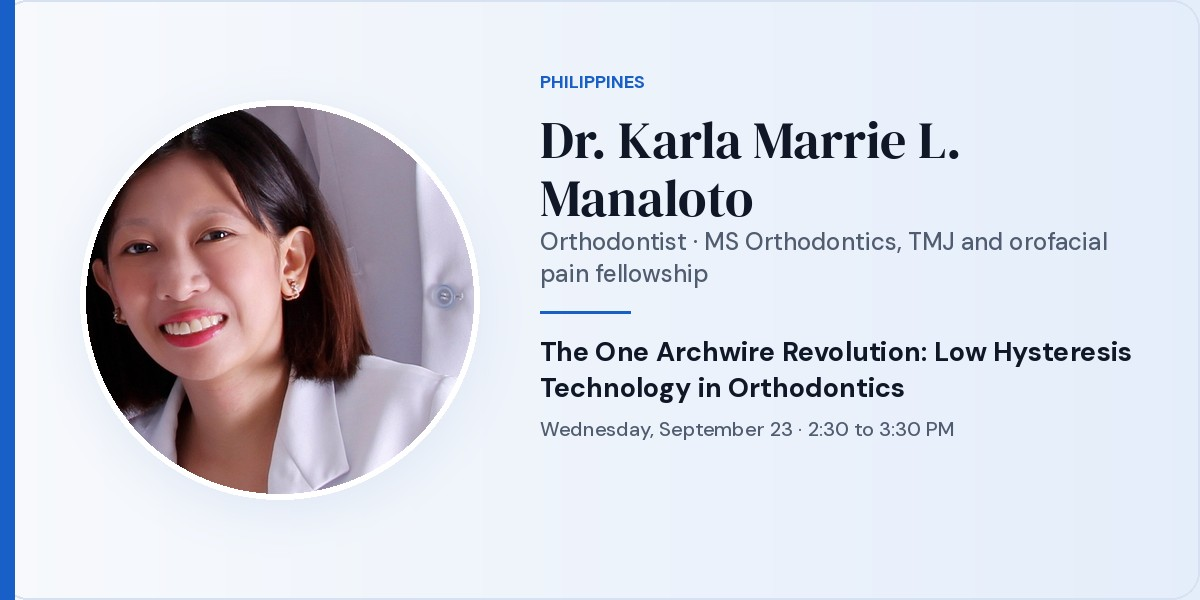
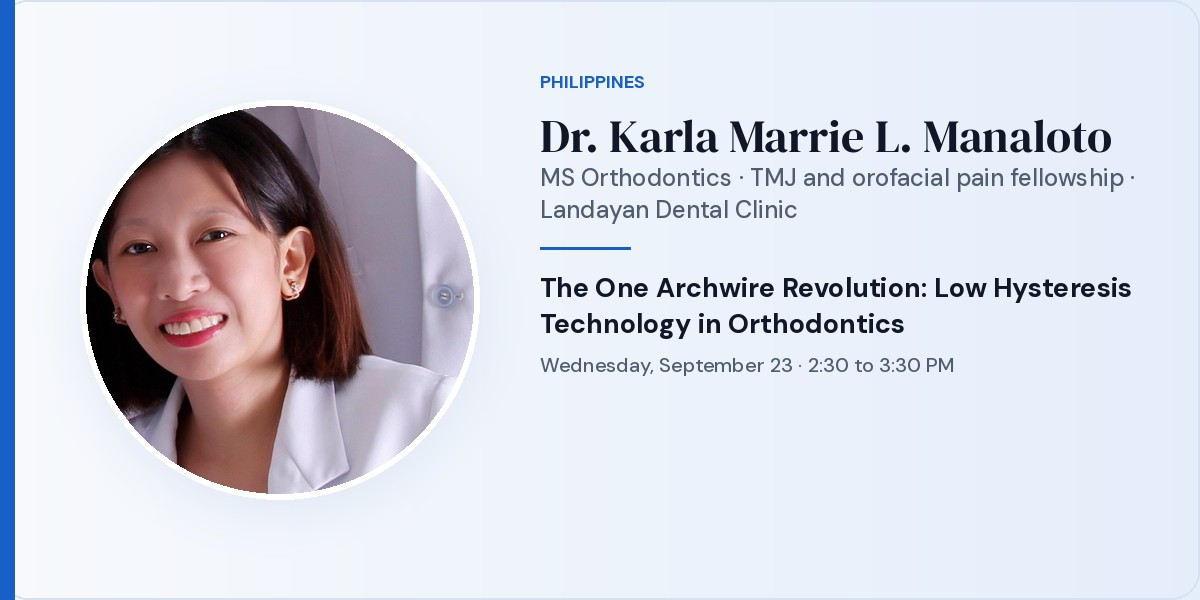
news: NADTI guide, full names and degrees on the share card, cards, schedule and bios; clean A1 Pro color renders in the booth grid
Claude-Session: https://claude.ai/code/session_014Ra92q29sWd9fBiskr8DQ3

Changed region(s): [[0.4317, 0.18, 0.9558, 0.75]]

diff --git a/src/data/news.js b/src/data/news.js
@@ -891,29 +891,29 @@ All lectures are inside the Scientific Sessions program at SMX. Times are as pos
 
 **Tuesday, September 22**
 
-@avatar(/images/news/nadti-2026-smx-manila-complete-guide/avatar-ryan-san.jpg) **10:00 to 11:00 AM.** Mr. Ryan San, Singapore. "Practical Lessons from Implementing AI-assisted Dental Workflows."
+@avatar(/images/news/nadti-2026-smx-manila-complete-guide/avatar-ryan-san.jpg) **10:00 to 11:00 AM.** Mr. Ryan San Yi Leong, Singapore. "Practical Lessons from Implementing AI-assisted Dental Workflows."
 
-@avatar(/images/news/nadti-2026-smx-manila-complete-guide/avatar-noor-addeen-abo-arsheed.jpg) **1:30 to 3:00 PM.** Dr. Noor Addeen Abo Arsheed, MAHSA University, Malaysia. "Breaking the Rules: Why Endocrowns are Changing the Way We Restore Teeth. The Biomimetic Revolution."
+@avatar(/images/news/nadti-2026-smx-manila-complete-guide/avatar-noor-addeen-abo-arsheed.jpg) **1:30 to 3:00 PM.** Assoc. Prof. Dr. Noor Addeen Abo Arsheed, BDS, MDS, FPFA, MICP, MAHSA University, Malaysia. "Breaking the Rules: Why Endocrowns are Changing the Way We Restore Teeth. The Biomimetic Revolution."
 
-@avatar(/images/news/nadti-2026-smx-manila-complete-guide/avatar-felylou-altura-fernandez.jpg) **4:00 to 5:00 PM.** Dr. Felylou Altura Fernandez, Philippines. "Legal Foundations of Dentistry: Mastering the Code of Ethics for Dentists, Dental Hygienists and Dental Technologists."
+@avatar(/images/news/nadti-2026-smx-manila-complete-guide/avatar-felylou-altura-fernandez.jpg) **4:00 to 5:00 PM.** Dr. Felylou Altura Fernandez, JD, DMD, RN, Philippines. "Legal Foundations of Dentistry: Mastering the Code of Ethics for Dentists, Dental Hygienists and Dental Technologists."
 
 **Wednesday, September 23**
 
-@avatar(/images/news/nadti-2026-smx-manila-complete-guide/avatar-nazatul-sabariah-ahmad.jpg) **10:30 to 11:30 AM.** Dr. Nazatul Sabariah Bt. Ahmad, Malaysia. "Molar Incisor Hypomineralisation: Navigating Diagnosis, Prevention and Clinical Management."
+@avatar(/images/news/nadti-2026-smx-manila-complete-guide/avatar-nazatul-sabariah-ahmad.jpg) **10:30 to 11:30 AM.** Dr. Nazatul Sabariah Bt. Ahmad, DDS, DClinDent (Paediatric Dentistry), Malaysia. "Molar Incisor Hypomineralisation: Navigating Diagnosis, Prevention and Clinical Management."
 
-@avatar(/images/news/nadti-2026-smx-manila-complete-guide/avatar-johnah-galicia.jpg) **1:00 to 2:00 PM.** Dr. Johnah C. Galicia, Philippines. "Persistent Endodontic Infections: From Biological Causes to Clinical Solutions."
+@avatar(/images/news/nadti-2026-smx-manila-complete-guide/avatar-johnah-galicia.jpg) **1:00 to 2:00 PM.** Dr. Johnah C. Galicia, DMD, PhD, MS, Diplomate ABE, Philippines. "Persistent Endodontic Infections: From Biological Causes to Clinical Solutions."
 
-@avatar(/images/news/nadti-2026-smx-manila-complete-guide/avatar-karla-marrie-manaloto.jpg) **2:30 to 3:30 PM.** Dr. Karla Marrie L. Manaloto, Philippines. "The One Archwire Revolution: Leveraging Low Hysteresis Technology for Efficient and Predictable Orthodontic Treatment."
+@avatar(/images/news/nadti-2026-smx-manila-complete-guide/avatar-karla-marrie-manaloto.jpg) **2:30 to 3:30 PM.** Dr. Karla Marrie L. Manaloto, MS Orthodontics, Philippines. "The One Archwire Revolution: Leveraging Low Hysteresis Technology for Efficient and Predictable Orthodontic Treatment."
 
 **Thursday, September 24**
 
-@avatar(/images/news/nadti-2026-smx-manila-complete-guide/avatar-noor-addeen-abo-arsheed.jpg) **9:00 to 10:00 AM, Student Forum.** Dr. Noor Addeen Abo Arsheed. "When to Restore, When to Replace: Clinical Decision-Making for Future Dentists."
+@avatar(/images/news/nadti-2026-smx-manila-complete-guide/avatar-noor-addeen-abo-arsheed.jpg) **9:00 to 10:00 AM, Student Forum.** Assoc. Prof. Dr. Noor Addeen Abo Arsheed, BDS, MDS, FPFA, MICP. "When to Restore, When to Replace: Clinical Decision-Making for Future Dentists."
 
-@avatar(/images/news/nadti-2026-smx-manila-complete-guide/avatar-kullanant-pansrimangkorn.jpg) **10:30 to 11:30 AM.** Dr. Kullanant Pansrimangkorn, Thailand. "Transform Patient Oral Hygiene Education with iTOP: Empowering Patients for Lifelong Oral Health."
+@avatar(/images/news/nadti-2026-smx-manila-complete-guide/avatar-kullanant-pansrimangkorn.jpg) **10:30 to 11:30 AM.** Dr. Kullanant Pansrimangkorn, DDS, Thailand. "Transform Patient Oral Hygiene Education with iTOP: Empowering Patients for Lifelong Oral Health."
 
 @avatar(/images/news/nadti-2026-smx-manila-complete-guide/avatar-chung-hua-chen.jpg) **1:00 to 2:30 PM.** Dr. Chung Hua Chen, Taiwan. "Bioceramic Obturation: The Contemporary Solution for Minimally Invasive Endodontics."
 
-@avatar(/images/news/nadti-2026-smx-manila-complete-guide/avatar-renoir-amba.jpg) **3:00 to 4:00 PM.** Dr. Renoir S. Amba, Philippines. "Metal Free: All-Ceramic Conservative Approach to Posterior Single Tooth Replacement."
+@avatar(/images/news/nadti-2026-smx-manila-complete-guide/avatar-renoir-amba.jpg) **3:00 to 4:00 PM.** Dr. Renoir S. Amba, prosthodontist, Philippines. "Metal Free: All-Ceramic Conservative Approach to Posterior Single Tooth Replacement."
 
 ![The Scientific Sessions schedule as posted by NADTI](/images/news/nadti-2026-smx-manila-complete-guide/poster-scientific-sessions-grid.jpg)
 
@@ -925,31 +925,31 @@ NADTI's posts give each speaker a name, a flag and a title. We went further and 
 
 ![Mr. Ryan San](/images/news/nadti-2026-smx-manila-complete-guide/card-ryan-san.jpg)
 
-**Mr. Ryan San, Singapore.** Ryan San Yi Leong is the chief executive and co-founder of **EM2AI**, the artificial-intelligence subsidiary of Q&M Dental Group, a dental chain listed on the Singapore Exchange. EM2AI builds software that reads radiographs, flags pathology, charts automatically and drafts treatment plans; it runs across more than 150 Q&M clinics in Singapore and Malaysia, its accuracy has been checked by University of Malaya staff, and in May 2026 it was granted a Singapore patent for dental treatment planning methods. He is not a dentist, which is the point of his hour: this is the operator's view of what happens when a clinic group actually switches AI on, what broke, and what stuck. If you have been wondering whether AI charting is real or a brochure, this is the session for you.
+**Mr. Ryan San Yi Leong, BCom, Singapore.** Ryan San is the chief executive and co-founder of **EM2AI**, the artificial-intelligence subsidiary of Q&M Dental Group, a dental chain listed on the Singapore Exchange. EM2AI builds software that reads radiographs, flags pathology, charts automatically and drafts treatment plans; it runs across more than 150 Q&M clinics in Singapore and Malaysia, its accuracy has been checked by University of Malaya staff, and in May 2026 it was granted a Singapore patent for dental treatment planning methods. He holds a Bachelor of Commerce in Accounting and Finance from Curtin University and is not a dentist, which is the point of his hour: this is the operator's view of what happens when a clinic group actually switches AI on, what broke, and what stuck. If you have been wondering whether AI charting is real or a brochure, this is the session for you.
 
 ![Dr. Noor Addeen Abo Arsheed](/images/news/nadti-2026-smx-manila-complete-guide/card-noor-addeen-abo-arsheed.jpg)
 
-**Dr. Noor Addeen Abo Arsheed, MAHSA University, Malaysia.** An Associate Professor and certified maxillofacial prosthodontist who heads the Restorative Dentistry Department of the Faculty of Dentistry at MAHSA University in Selangor. He earned his Bachelor of Dental Surgery in 2005 and his master's degree and specialization in prosthodontics in 2010, trained under the prosthodontic rehabilitation specialists Joseph Massad and Matthias Kern, and now carries more than fifteen years of clinical and teaching experience. He is a Fellow of the Pierre Fauchard Academy and a member of the International College of Prosthodontists, previously served as Deputy Dean and head of clinical teaching at Lincoln University College, and is a co-author of a systematic review and meta-analysis on the Biologically Oriented Preparation Technique. He speaks twice at NADTI: on Tuesday afternoon he makes the case for the **endocrown**, the single-piece ceramic restoration that anchors in the pulp chamber instead of a post and core, as part of the biomimetic movement in restorative dentistry; on Thursday morning he opens the Student Forum on the judgment every clinician makes daily, whether a compromised tooth is worth saving. NADTI notes this is his second visit to the Philippines.
+**Assoc. Prof. Dr. Noor Addeen Abo Arsheed, BDS, MDS, FPFA, MICP, Malaysia.** An Associate Professor and certified maxillofacial prosthodontist who heads the Restorative Dentistry Department of the Faculty of Dentistry at MAHSA University in Selangor. He earned his Bachelor of Dental Surgery in 2005 and his master's degree and specialization in prosthodontics in 2010, trained under the prosthodontic rehabilitation specialists Joseph Massad and Matthias Kern, and now carries more than fifteen years of clinical and teaching experience. He is a Fellow of the Pierre Fauchard Academy and a member of the International College of Prosthodontists, previously served as Deputy Dean and head of clinical teaching at Lincoln University College, and is a co-author of a systematic review and meta-analysis on the Biologically Oriented Preparation Technique. He speaks twice at NADTI: on Tuesday afternoon he makes the case for the **endocrown**, the single-piece ceramic restoration that anchors in the pulp chamber instead of a post and core, as part of the biomimetic movement in restorative dentistry; on Thursday morning he opens the Student Forum on the judgment every clinician makes daily, whether a compromised tooth is worth saving. NADTI notes this is his second visit to the Philippines.
 
 ![Dr. Felylou Altura Fernandez](/images/news/nadti-2026-smx-manila-complete-guide/card-felylou-altura-fernandez.jpg)
 
-**Dr. Felylou Altura Fernandez, Philippines.** A dentist, a lawyer and a nurse in one person. The Professional Regulation Commission's own CPD records list her as JD (LLB), DMD, RN, USRN, and she has delivered this same lecture on the PDA circuit under a PRC-accredited program. Her hour covers whether the PRC Code of Ethics under Board Resolution No. 14, series of 2008 is binding on you, the gray zones between dentistry as a profession and dentistry as a business, and how the code applies to social-media conduct. Practical, and increasingly relevant for every clinic with a Facebook page.
+**Dr. Felylou Altura Fernandez, JD (LLB), DMD, RN, USRN, Philippines.** A dentist, a lawyer and a nurse in one person. The Professional Regulation Commission's own CPD records list her as JD (LLB), DMD, RN, USRN, and she has delivered this same lecture on the PDA circuit under a PRC-accredited program. Her hour covers whether the PRC Code of Ethics under Board Resolution No. 14, series of 2008 is binding on you, the gray zones between dentistry as a profession and dentistry as a business, and how the code applies to social-media conduct. Practical, and increasingly relevant for every clinic with a Facebook page.
 
 ![Dr. Nazatul Sabariah Bt. Ahmad](/images/news/nadti-2026-smx-manila-complete-guide/card-nazatul-sabariah-ahmad.jpg)
 
-**Dr. Nazatul Sabariah Bt. Ahmad, Malaysia.** A paediatric dentist who earned her DDS at Universiti Kebangsaan Malaysia in 2004 and her Doctor in Dentistry in Paediatric Dentistry at the UCL Eastman Dental Institute in London in 2012. She started in Malaysia's Ministry of Health, spent about a decade as a university academic, and now leads the Dental Valet group of paediatric clinics as CEO of DV Group Berhad while consulting at Avisena Women's and Children's Specialist Hospital. She sits on the editorial board of the Ministry of Health's Clinical Practice Guidelines. Her lecture is on **Molar Incisor Hypomineralisation**, the chalky, sensitive, fracture-prone first molars and incisors that general dentists see far more often than they diagnose. Diagnosis, prevention, and what to do when a child sits in your chair with one.
+**Dr. Nazatul Sabariah Bt. Ahmad, DDS, DClinDent (Paediatric Dentistry), Malaysia.** A paediatric dentist who earned her DDS at Universiti Kebangsaan Malaysia in 2004 and her Doctor in Dentistry in Paediatric Dentistry at the UCL Eastman Dental Institute in London in 2012. She started in Malaysia's Ministry of Health, spent about a decade as a university academic, and now leads the Dental Valet group of paediatric clinics as CEO of DV Group Berhad while consulting at Avisena Women's and Children's Specialist Hospital. She sits on the editorial board of the Ministry of Health's Clinical Practice Guidelines. Her lecture is on **Molar Incisor Hypomineralisation**, the chalky, sensitive, fracture-prone first molars and incisors that general dentists see far more often than they diagnose. Diagnosis, prevention, and what to do when a child sits in your chair with one.
 
 ![Dr. Johnah C. Galicia](/images/news/nadti-2026-smx-manila-complete-guide/card-johnah-galicia.jpg)
 
-**Dr. Johnah C. Galicia, Philippines.** One of the most credentialed endodontists in the country. DMD from Manila Central University in 1996, a clinical dentistry diploma from the University of Rennes 1 in France, a PhD in Oral Biology from Niigata University in Japan, and endodontic specialty training at the University of North Carolina at Chapel Hill as an AAE Foundation Educator Scholar. He is a Diplomate of the American Board of Endodontics, formerly directed graduate endodontology programs at the University of the Pacific in California and at UCL Eastman in London, served as a trustee of the AAE Foundation, and is now Professor and Associate Dean at the MCU College of Dentistry. His topic is the case every practitioner dreads: the root canal that will not heal. Why persistent infections persist, biologically, and what actually resolves them.
+**Dr. Johnah C. Galicia, DMD, PhD, MS, Diplomate of the American Board of Endodontics, Philippines.** One of the most credentialed endodontists in the country. DMD from Manila Central University in 1996, a clinical dentistry diploma from the University of Rennes 1 in France, a PhD in Oral Biology from Niigata University in Japan, and endodontic specialty training at the University of North Carolina at Chapel Hill as an AAE Foundation Educator Scholar. He is a Diplomate of the American Board of Endodontics, formerly directed graduate endodontology programs at the University of the Pacific in California and at UCL Eastman in London, served as a trustee of the AAE Foundation, and is now Professor and Associate Dean at the MCU College of Dentistry. His topic is the case every practitioner dreads: the root canal that will not heal. Why persistent infections persist, biologically, and what actually resolves them.
 
 ![Dr. Karla Marrie L. Manaloto](/images/news/nadti-2026-smx-manila-complete-guide/card-karla-marrie-manaloto.jpg)
 
-**Dr. Karla Marrie L. Manaloto, Philippines.** An orthodontist with a Master of Science in Orthodontics from 2012, fellowship training in temporomandibular disorders and orofacial pain, and further training in tongue and lip tie. She consults at Landayan Dental Clinic and belongs to the Orofacial Pain Association of the Philippines, the Philippine Association of Functional Joint Orthopedic TMJ and the Philippine Dental Association, with affiliate membership in the World Federation of Orthodontists. Her lecture is on **low-hysteresis archwires**, wires that deliver a steadier, gentler force across a wider range of deflection, and the claim in the title, that one wire can carry a case further than a conventional sequence.
+**Dr. Karla Marrie L. Manaloto, MS Orthodontics, Philippines.** An orthodontist with a Master of Science in Orthodontics from 2012, fellowship training in temporomandibular disorders and orofacial pain, and further training in tongue and lip tie. She consults at Landayan Dental Clinic and belongs to the Orofacial Pain Association of the Philippines, the Philippine Association of Functional Joint Orthopedic TMJ and the Philippine Dental Association, with affiliate membership in the World Federation of Orthodontists. Her lecture is on **low-hysteresis archwires**, wires that deliver a steadier, gentler force across a wider range of deflection, and the claim in the title, that one wire can carry a case further than a conventional sequence.
 
 ![Dr. Kullanant Pansrimangkorn](/images/news/nadti-2026-smx-manila-complete-guide/card-kullanant-pansrimangkorn.jpg)
 
-**Dr. Kullanant Pansrimangkorn, Thailand.** Listed on Curaden Academy's roster of certified **iTOP** lecturers, the individually trained oral prophylaxis program that teaches clinicians to teach patients, hands in mouth, until brushing and interdental cleaning are done properly. A Bangkok clinician with hospital practice and published research on caries in Thai preschool children. His session is for anyone who has watched a patient nod through hygiene instructions and come back six months later with the same plaque.
+**Dr. Kullanant Pansrimangkorn, DDS, Thailand.** Listed on Curaden Academy's roster of certified **iTOP** lecturers, the individually trained oral prophylaxis program that teaches clinicians to teach patients, hands in mouth, until brushing and interdental cleaning are done properly. A Bangkok clinician with hospital practice and published research on caries in Thai preschool children. His session is for anyone who has watched a patient nod through hygiene instructions and come back six months later with the same plaque.
 
 ![Dr. Chung Hua Chen](/images/news/nadti-2026-smx-manila-complete-guide/card-chung-hua-chen.jpg)
 
@@ -957,7 +957,7 @@ NADTI's posts give each speaker a name, a flag and a title. We went further and 
 
 ![Dr. Renoir S. Amba](/images/news/nadti-2026-smx-manila-complete-guide/card-renoir-amba.jpg)
 
-**Dr. Renoir S. Amba, Philippines.** A prosthodontist with more than thirty years in practice, based at his own clinic in BF Homes, Parañaque. His hour is on **metal-free, all-ceramic** conservative options for replacing a single missing back tooth, the decision between a resin-bonded bridge, a conventional bridge and an implant, and how far modern ceramics have pushed the conservative end of that choice.
+**Dr. Renoir S. Amba, prosthodontist, Philippines.** A prosthodontist with more than thirty years in practice, based at his own clinic in BF Homes, Parañaque. His hour is on **metal-free, all-ceramic** conservative options for replacing a single missing back tooth, the decision between a resin-bonded bridge, a conventional bridge and an implant, and how far modern ceramics have pushed the conservative end of that choice.
 
 ## The First Student Forum
 
@@ -1006,9 +1006,9 @@ SMX Convention Center Manila sits on Seashell Lane in the Mall of Asia Complex, 
 
 We will be in **Halls 1 to 3 at Booth 034 and 035** all three days, and the chair at the front of the booth is the **ROSON A1 Pro**, the color-led treatment chair ROSON built for the new generation of dentists. It comes in three signature colors, ROSON Blue, Ballet Pink and Mint Green, with twelve silicone-leather and twenty-one PU-leather options beyond those, on a 12 mm carbon-structural-steel frame rated for 150 kg, with sleep-grade soft start and stop, the Rolight S eight-LED tri-mode light with hands-free infrared control, intelligent chair memory, a Smart Clean button, and the RS-07 dentist stool as standard. NADTI is the first trade floor where you can sit in one in all three colors. The [A1 Pro page](/a1-pro) has the full walk-through.
 
-![ROSON A1 Pro in the three signature colors](/images/products/a1-pro/three-signature-colors-showcase.png)
-![The A1 Pro touchscreen control](/images/products/a1-pro/view-3-touchscreen.jpg)
-![The Rolight S light head](/images/products/a1-pro/view-5-light.jpg)
+![ROSON A1 Pro in Signature Mint Green](/images/news/nadti-2026-smx-manila-complete-guide/a1-pro-mint-green.jpg)
+![ROSON A1 Pro in Signature Ballet Pink](/images/news/nadti-2026-smx-manila-complete-guide/a1-pro-ballet-pink.jpg)
+![ROSON A1 Pro in Signature ROSON Blue](/images/news/nadti-2026-smx-manila-complete-guide/a1-pro-roson-blue.jpg)
 
 Beside it, the **A3 family** and the **S6**, set up to be sat in, not just looked at. Our technicians run the chairs through their positions, the light and the delivery unit for every visitor, and the handpiece and small-equipment counter is open the whole time. Denjoy endodontic motors, apex locators and curing lights are on the counter too.
 
